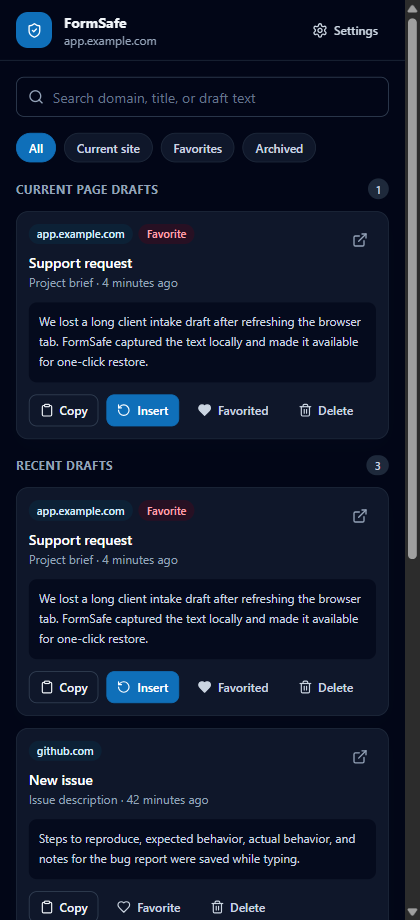
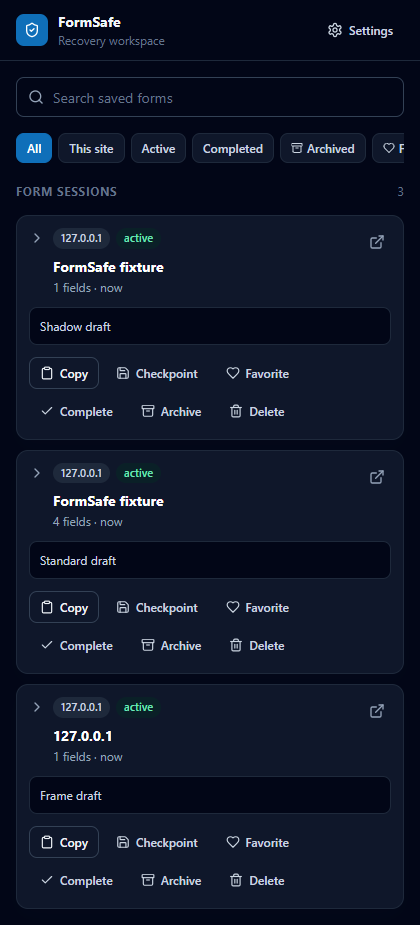
docs: restore the visual project overview
Bring back the FormSafe logo, status and technology badges, product story, screenshots, architecture overview, installation steps, and project structure.

Refresh the Side Panel and Settings images for version 2.0 and add the current onboarding screen.

diff --git a/README.md b/README.md
@@ -1,54 +1,120 @@
-# FormSafe 2.0
+<p align="center">
+  <img src="./public/icon/128.png" width="96" height="96" alt="FormSafe logo">
+</p>
 
-FormSafe is a local-first Chrome extension that saves complete form sessions and restores them only to the exact matching page and form. There is no account, backend, cloud sync, AI, telemetry, or analytics.
+<h1 align="center">FormSafe</h1>
 
-## Install
+<p align="center">
+  <strong>Private, local form recovery for Chrome.</strong><br>
+  Keep unfinished forms safe through refreshes, crashes, closed tabs, and accidental navigation.
+</p>
 
-1. Download `formsafe-2.0.0-chrome.zip` from the latest GitHub Release.
-2. Extract the archive to a permanent folder.
-3. Open `chrome://extensions` in Chrome and enable **Developer mode**.
+<p align="center">
+  <a href="https://github.com/MaryanKostrubyak/form-safe/releases/latest"><img src="https://img.shields.io/github/v/release/MaryanKostrubyak/form-safe?label=release" alt="Latest release"></a>
+  <a href="https://github.com/MaryanKostrubyak/form-safe/actions/workflows/ci.yml"><img src="https://github.com/MaryanKostrubyak/form-safe/actions/workflows/ci.yml/badge.svg" alt="CI status"></a>
+  <a href="./LICENSE"><img src="https://img.shields.io/github/license/MaryanKostrubyak/form-safe" alt="License"></a>
+  <img src="https://img.shields.io/badge/Chrome-116%2B-4285F4?logo=googlechrome&logoColor=white" alt="Chrome 116 or newer">
+</p>
+
+<p align="center">
+  <img src="https://img.shields.io/badge/TypeScript-3178C6?style=for-the-badge&logo=typescript&logoColor=white" alt="TypeScript">
+  <img src="https://img.shields.io/badge/React-20232A?style=for-the-badge&logo=react&logoColor=61DAFB" alt="React">
+  <img src="https://img.shields.io/badge/WXT-111827?style=for-the-badge" alt="WXT">
+  <img src="https://img.shields.io/badge/Manifest_V3-0F766E?style=for-the-badge" alt="Manifest V3">
+  <img src="https://img.shields.io/badge/Local_only-16A34A?style=for-the-badge" alt="Local only">
+</p>
+
+## Why FormSafe exists
+
+A long support reply, application, issue report, or admin note can disappear after one bad refresh. Most websites do not protect text that has not been submitted yet.
+
+FormSafe watches supported form fields and keeps recoverable versions locally in Chrome. When something goes wrong, you can restore the complete form, an earlier version, or one selected field. There is no account, backend, cloud sync, telemetry, analytics, or AI processing.
+
+## Highlights
+
+| | |
+| --- | --- |
+| **Complete form sessions** | Saves text, textarea, email, search, contenteditable, select, checkbox, and radio values that belong to the same form. |
+| **10-version history** | Keeps meaningful checkpoints before clearing, restoring, submitting, leaving a page, and during longer editing sessions. |
+| **Strict recovery targeting** | Restores only when origin, path, frame, and form signatures match. A draft cannot be inserted into an unrelated site. |
+| **Optional encryption** | AES-256-GCM encrypted local storage with a session-only key, manual lock, and passphrase rotation. |
+| **Private site access** | Requests access only after onboarding explains the choice between all websites and selected websites. |
+| **Safe backups** | Creates encrypted `.formsafe` backups and validates imports before anything is written. |
+| **Modern editor support** | Handles open Shadow DOM, iframes, ProseMirror, Quill, Lexical, TinyMCE, and CodeMirror 6. |
+| **No silent cleanup of favorites** | Storage pruning starts with the oldest non-favorite completed or archived sessions. |
+
+## Screenshots
+
+Real screenshots captured from the production extension build.
+
+### Recovery Side Panel
+
+Search saved sessions, inspect fields and versions, restore content, create checkpoints, and manage completed or archived forms.
+
+![FormSafe recovery Side Panel](./screenshots/side-panel.png)
+
+### Settings and local storage
+
+Manage site access, encryption, recovery behavior, backups, language, appearance, and storage usage from one page.
+
+![FormSafe settings](./screenshots/settings.png)
+
+<table>
+  <tr>
+    <td width="50%" valign="top">
+      <strong>Quick popup</strong><br><br>
+      Current-site status, saved session count, pause control, and one-click access to recovery.<br><br>
+      <img src="./screenshots/popup.png" alt="FormSafe popup">
+    </td>
+    <td width="50%" valign="top">
+      <strong>Permission onboarding</strong><br><br>
+      Chrome requests site access only after the user chooses where autosave should run.<br><br>
+      <img src="./screenshots/onboarding.png" alt="FormSafe permission onboarding">
+    </td>
+  </tr>
+</table>
+
+## Privacy by default
+
+FormSafe never saves password, hidden, file, payment credential, token, OTP, PIN, SSN, IBAN, passport, API-key, or recovery-phrase fields. If a form contains a blocked sensitive field, the complete form is skipped by default.
+
+- Drafts stay on the device.
+- Extension pages do not load draft plaintext directly from browser storage.
+- Session writes go through one serialized background queue.
+- Settings and technical metadata use trusted-context storage access where Chrome supports it.
+- Plain JSON export remains available, but it requires an explicit privacy confirmation.
+- Forgotten encryption passphrases cannot be recovered.
+
+## Install the release
+
+1. Download [`formsafe-2.0.0-chrome.zip`](https://github.com/MaryanKostrubyak/form-safe/releases/download/v2.0.0/formsafe-2.0.0-chrome.zip).
+2. Extract it to a permanent folder.
+3. Open `chrome://extensions` and enable **Developer mode**.
 4. Select **Load unpacked** and choose the extracted folder.
 
-When updating an unpacked copy, replace the extracted files and select **Reload** on the Chrome extensions page.
+When updating an unpacked copy, replace the extracted files and select **Reload** on the Chrome extensions page. Chrome 116 or newer is required. Firefox is not included.
 
-## What 2.0 saves
+## Recovery workflow
 
-- Complete form sessions: text, textarea, email, search, contenteditable, select, checkbox, and radio fields.
-- Up to 10 meaningful checkpoints per form, including clear, idle, restore, submit, page-hide, and manual checkpoints.
-- Page origin/path, frame URL, and stable form/field signatures used for strict restore targeting.
-- Favorite, archive/completion state, restore count, and timestamps.
+```text
+Website form
+    ↓
+Content script collects safe field snapshots
+    ↓
+Background worker validates and serializes writes
+    ↓
+IndexedDB stores the session and version history
+    ↓
+Side Panel requests a strict restore by session/version ID
+    ↓
+Only the matching page, frame, and form receives the fields
+```
 
-The content script sends captures to the background worker. All session writes pass through one serialized IndexedDB repository; settings and technical metadata remain in `storage.local` with trusted-context access where the browser supports it.
+## Storage and migration
 
-## Privacy and encryption
+FormSafe stores up to approximately 50 MB or 2,000 sessions. Each session keeps no more than ten versions. Automatic pruning never removes favorites and starts with the oldest completed or archived sessions.
 
-FormSafe never saves password, hidden, file, payment credential, token, OTP, PIN, SSN, IBAN, passport, API-key, or recovery-phrase fields. If a form contains one of these fields, the complete form is blocked by default. A field or site can be ignored explicitly, but blocked credential fields cannot be enabled.
-
-Optional encryption uses AES-256-GCM with a unique IV for every record. The key is derived with PBKDF2-SHA-256 and a random salt. Only the derived key is kept in `storage.session`; after a browser restart, FormSafe remains locked until the passphrase is entered. Forgotten passphrases cannot be recovered.
-
-Encrypted `.formsafe` files are the recommended backup. Plain JSON export is a separate action with a privacy warning. Import validates schema, file size, record count, and encrypted envelopes, then presents a newer-wins merge preview before changing storage.
-
-## Permissions
-
-FormSafe does not require `<all_urls>` at install time. Onboarding explains and requests either all HTTP(S) sites or the selected site after an explicit user action. Runtime content scripts follow permission grants and revocations.
-
-Required API permissions are `storage`, `activeTab`, `scripting`, and `contextMenus`. Chrome also receives `sidePanel` from the WXT side-panel entrypoint.
-
-## Recovery UI
-
-- Search and server-side pagination with site, status, and favorite filters.
-- Expandable sessions, fields, and a 10-version timeline.
-- Restore all, one version, or one selected field.
-- Copy, checkpoint, favorite, complete, archive, delete, and open-page actions.
-- A field restore control, context-menu actions, and browser commands.
-- Locked, permission-required, paused, active, quota, migration, loading, empty, and error states.
-
-Open Shadow DOM, same-permission iframes, ProseMirror, Quill, Lexical, TinyMCE, and CodeMirror 6 are supported. Closed Shadow DOM and Monaco cannot be observed reliably and are not reported as saved.
-
-## Browser support
-
-- Chrome 116+
-FormSafe uses the native Chrome Side Panel for recovery.
+On first start after upgrading from 1.0, legacy field drafts are grouped into form sessions. FormSafe writes the new records, reads them back for verification, and only then removes the old storage entries.
 
 ## Development
 
@@ -63,21 +129,48 @@ pnpm test:e2e
 pnpm zip
 ```
 
-`pnpm release:check` runs type checking, lint, unit/integration coverage, the Chrome production build, browser tests, and release packaging. Chromium E2E fixtures cover standard forms, controlled inputs, SPA-ready navigation, iframes, open Shadow DOM, and supported editor shapes. Visual snapshots cover light/dark and narrow/wide layouts, including reduced motion.
+`pnpm release:check` runs type checking, lint, unit and integration coverage, the Chrome production build, Chromium E2E tests, and release packaging.
 
-Generated unpacked folders:
+Load the development build from:
 
-- `.output/chrome-mv3`
+```text
+.output/chrome-mv3
+```
 
-## Storage limits and migration
+## Project structure
 
-FormSafe limits itself to approximately 50 MB or 2,000 sessions. Pruning starts with the oldest non-favorite completed/archived sessions and never removes favorites automatically.
+```text
+entrypoints/
+  background.ts        Storage queue, migration, restore and permissions
+  content.ts           Form detection, autosave and field recovery
+  onboarding/          Site access and encryption setup
+  popup/               Current-site controls
+  sidepanel/           Session browser and restore workspace
+  options/             Settings, encryption, storage and backups
 
-On first 2.0 start, legacy field drafts are grouped by origin, path, and form signature, written as v2 sessions with a migration checkpoint, read back for verification, and only then removed from legacy storage.
+src/
+  components/          Shared React UI
+  lib/v2/              Sessions, IndexedDB, crypto and backup logic
+  styles/              Shared utility design system
+  types.ts             Shared data contracts
 
-## Backup format
+tests/
+  e2e/                 Chromium fixtures and visual regression
+  *.test.ts            Unit and integration coverage
+```
 
-Backup schema version is `2`. Plain backups use `kind: "formsafe-backup"`; encrypted backups use `kind: "formsafe-encrypted-backup"` with PBKDF2 metadata and an AES-GCM payload. Imports are limited to 2,000 sessions and approximately 51 MB.
+## Supported and unsupported editors
+
+Supported: standard form controls, React-controlled inputs, contenteditable, open Shadow DOM, accessible iframes, ProseMirror, Quill, Lexical, TinyMCE, and CodeMirror 6.
+
+Closed Shadow DOM and Monaco cannot be observed reliably, so FormSafe reports them as unsupported instead of claiming that their content was saved.
+
+## Release and security information
+
+- [Latest release](https://github.com/MaryanKostrubyak/form-safe/releases/latest)
+- [Changelog](./CHANGELOG.md)
+- [Security policy](./SECURITY.md)
+- [Release notes](./RELEASE_NOTES.md)
 
 ## License
 

diff --git a/screenshots/README.md b/screenshots/README.md
@@ -7,6 +7,6 @@ Included image files:
 - `side-panel.png`
 - `popup.png`
 - `settings.png`
-- `privacy-controls.png`
+- `onboarding.png`
 
-Screenshots are captured from the built extension UI, not generated mock artwork.
+Screenshots are captured from the built extension UI, not generated mock artwork. The previous `privacy-controls.png` capture is retained for release history but is no longer used in the main README.
